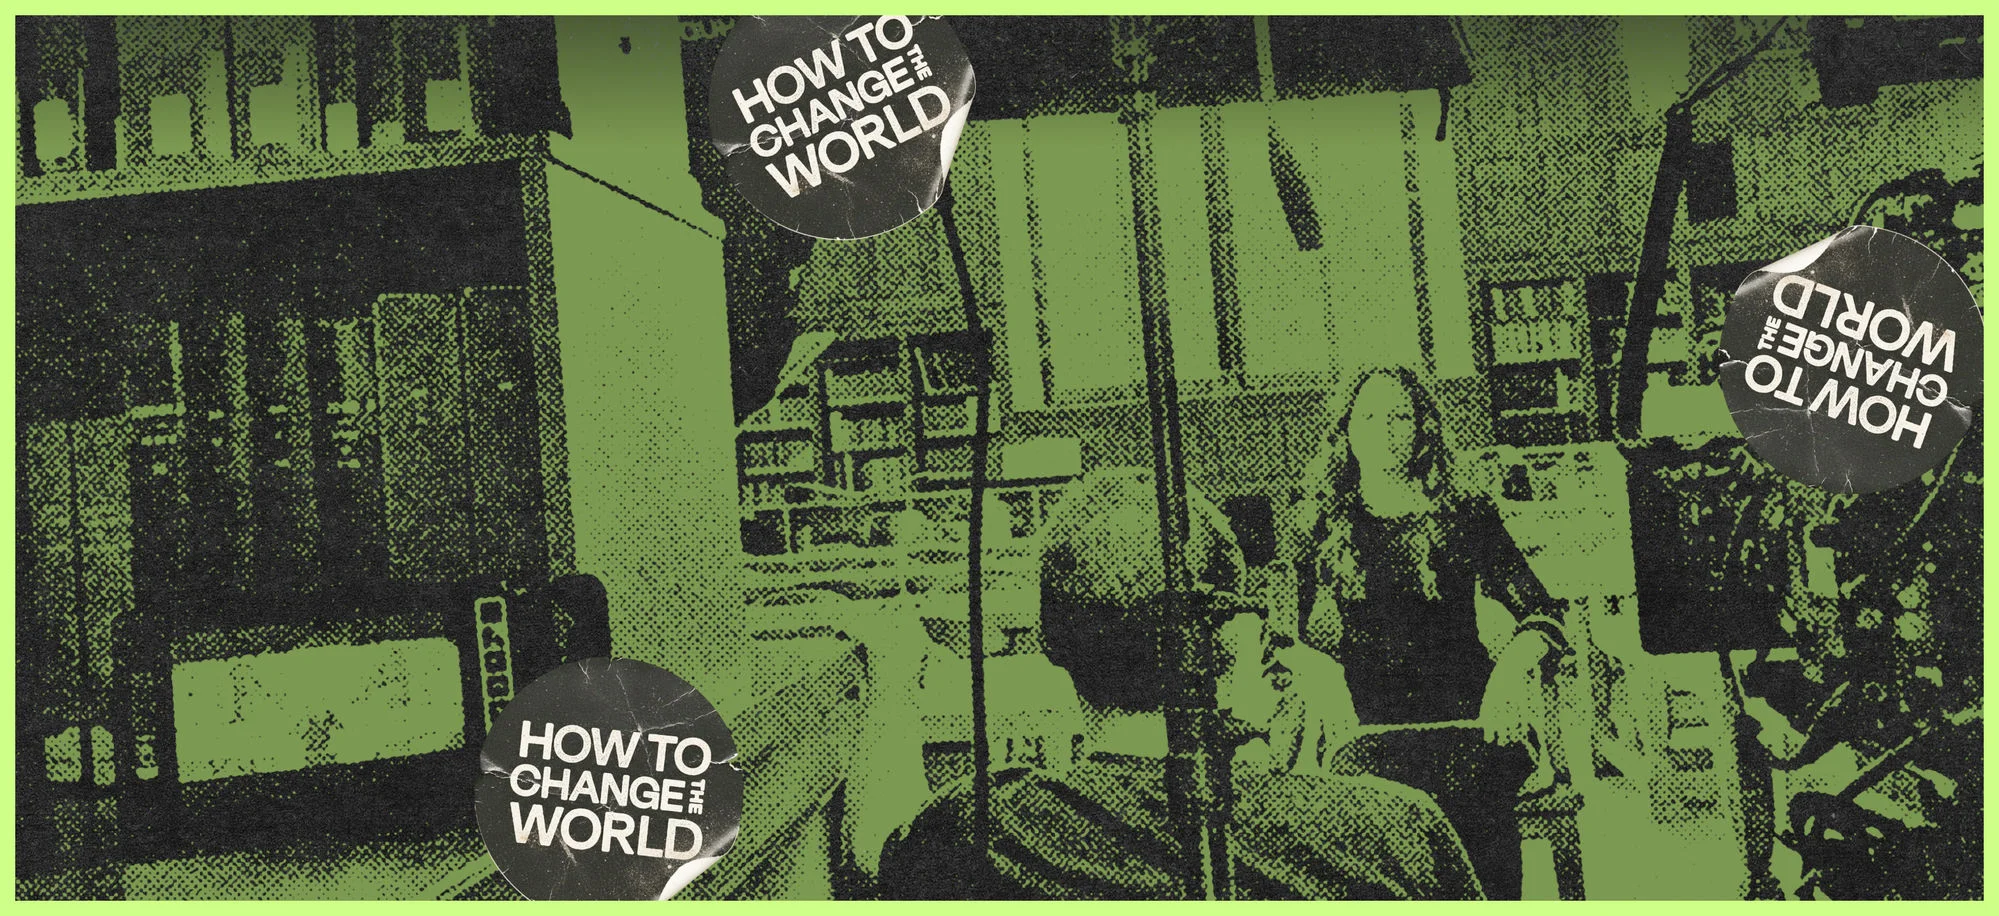
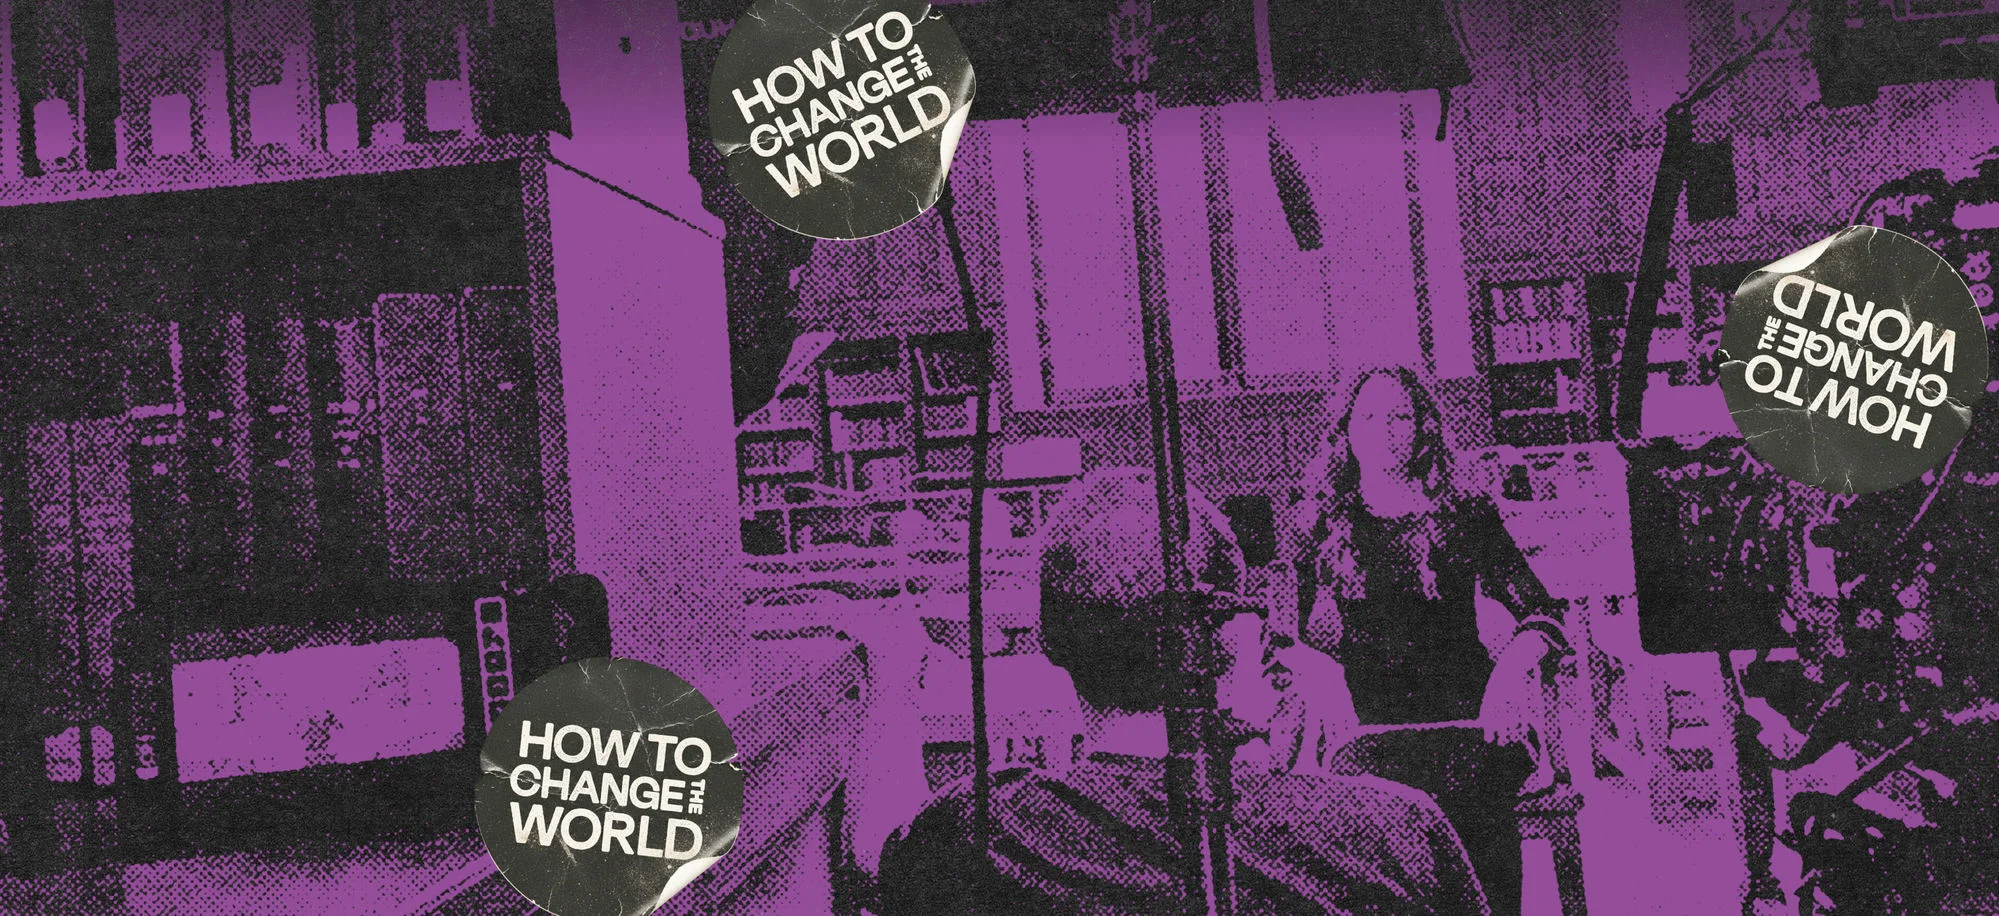
Lead the Awards page with the headline nominations
Adds the Golden Globe / Academy Award / BAFTA nomination row from Figma
2489:1360 above the laurels. It sits in the page header rather than in the
collection, so it holds across both the laurel and list views. Figma's
-1.44px on 36px and -1.12px on 28px are the same -0.04em, so one tracking
value covers both as they scale.

Both views now lead with SXSW, DOC NYC, Slamdance, Santa Barbara, Big Sky,
INDY, Signal, DC/DOX and Washington West; the sort is stable, so the rest
keep their existing order behind them. The list view's award type goes
green.

The podcast case study hero swaps to the purple treatment.

diff --git a/src/r2/siteData.js b/src/r2/siteData.js
@@ -255,6 +255,27 @@ export const ALL_EPISODES = YT_FEED.episodes
 /* --------------------------------------------------------------------------
    Awards / Press — laurels sliced from Figma rows 2425:1791 … 2425:1795
    -------------------------------------------------------------------------- */
+/* Headline nominations, called out above the laurels — Figma 2489:1360. */
+export const AWARD_NOMINATIONS = [
+  { id: 'golden-globe', title: ['GOLDEN GLOBE®', 'NOMINEE'], category: ['BEST MOTION PICTURE,', 'NON-ENGLISH LANGUAGE'] },
+  { id: 'academy-award', title: ['ACADEMY AWARD®', 'NOMINEE'], category: ['BEST INTERNATIONAL', 'FEATURE FILM'] },
+  { id: 'bafta', title: ['BAFTA®', 'NOMINEE'], category: ['FILM NOT IN THE', 'ENGLISH LANGUAGE'] },
+]
+
+/* The festivals the user wants leading both views, in this order. Anything not
+   named here keeps its original position and falls in behind Washington West. */
+const AWARDS_LEAD_ORDER = [
+  'sxsw-shuffle',
+  'docnyc-2023',
+  'slamdance-2024',
+  'santa-barbara',
+  'big-sky-2024',
+  'indy-film-2023',
+  'signal-silver-2023',
+  'dcdox-2023',
+  'washington-west-2023',
+]
+
 export const AWARDS = [
   { id: 'sxsw-shuffle', alt: 'SXSW Film & TV Festival 2025 — Documentary Feature Jury Award Winner' },
   { id: 'anthem-2025', alt: 'Anthem Awards 2025 — Silver Winner' },
@@ -280,4 +301,15 @@ export const AWARDS = [
   { id: 'santa-barbara', alt: 'Santa Barbara International Film Festival — Official Selection' },
   { id: 'ojai-best-doc-short', alt: 'Ojai Film Festival 2023 — Winner, Best Documentary Short' },
   { id: 'slamdance-2024', alt: 'Slamdance Film Festival 2024' },
-].map((a) => ({ ...a, src: `${A}/awards/${a.id}.webp` }))
+]
+  .map((a) => ({ ...a, src: `${A}/awards/${a.id}.webp` }))
+  .sort((a, b) => {
+    /* Lead-order entries first, in the order listed; everything else keeps its
+       original sequence behind them. `indexOf` returns -1 for unlisted ids, so
+       map those to Infinity rather than letting them sort ahead of the leads. */
+    const rank = (x) => {
+      const i = AWARDS_LEAD_ORDER.indexOf(x.id)
+      return i === -1 ? Infinity : i
+    }
+    return rank(a) - rank(b)
+  })

diff --git a/src/r2/pages/Awards.jsx b/src/r2/pages/Awards.jsx
@@ -1,8 +1,8 @@
-import { useEffect, useRef, useState } from 'react'
+import { Fragment, useEffect, useRef, useState } from 'react'
 import Nav from '../Nav.jsx'
 import Ticker from '../Ticker.jsx'
 import Footer from '../Footer.jsx'
-import { AWARDS } from '../siteData.js'
+import { AWARDS, AWARD_NOMINATIONS } from '../siteData.js'
 import './Awards.css'
 
 function GridIcon() {
@@ -107,6 +107,28 @@ export default function Awards() {
       <main>
         <section className="r2-wrap r2awards__head">
           <h1 className="r2-display">Awards / Press</h1>
+        </section>
+
+        {/* Headline nominations — Figma 2489:1360. Sits above the laurels and
+            stays put across both views, since it reads as part of the page
+            header rather than as another row of the collection below. The line
+            breaks are authored, not wrapped: each group is set as two centred
+            lines in the design. */}
+        <section className="r2awards__nominations" aria-label="Headline nominations">
+          {AWARD_NOMINATIONS.map((n) => (
+            <div key={n.id} className="r2awards__nom">
+              <p className="r2awards__nom-title">
+                {n.title.map((line, i) => (
+                  <Fragment key={line}>{i ? <br /> : null}{line}</Fragment>
+                ))}
+              </p>
+              <p className="r2awards__nom-cat">
+                {n.category.map((line, i) => (
+                  <Fragment key={line}>{i ? <br /> : null}{line}</Fragment>
+                ))}
+              </p>
+            </div>
+          ))}
         </section>
 
         <section className="r2-wrap r2awards__body">

diff --git a/src/r2/pages/Awards.css b/src/r2/pages/Awards.css
@@ -94,7 +94,60 @@
 .r2awards__distinction {
   font-size: 13.5px;
   line-height: 1.45;
+  color: var(--r2-green);
+}
+
+/* --- Headline nominations — Figma 2489:1360 --------------------------------
+   Three groups spread across the full 32px gutter, each set centred over two
+   authored lines. Figma's -1.44px on 36px and -1.12px on 28px are the same
+   -0.04em, so one value covers both as they scale down. */
+.r2awards__nominations {
+  display: flex;
+  align-items: flex-start;
+  justify-content: space-between;
+  gap: 32px;
+  width: 100%;
+  max-width: var(--r2-frame);
+  margin: 0 auto;
+  padding-inline: var(--r2-gutter);
+  padding-bottom: 56px;
+  text-align: center;
+}
+
+.r2awards__nom {
+  display: flex;
+  flex-direction: column;
+  gap: 8px;
+}
+
+.r2awards__nom-title,
+.r2awards__nom-cat {
+  font-family: var(--r2-display);
+  letter-spacing: -0.04em;
+  line-height: 0.92;
+  text-transform: uppercase;
+  margin: 0;
+}
+.r2awards__nom-title {
+  font-weight: 700;
+  font-size: clamp(20px, 2.5vw, 36px);
+  color: var(--r2-green);
+}
+.r2awards__nom-cat {
+  font-weight: 500;
+  font-size: clamp(15px, 1.95vw, 28px);
   color: var(--r2-cream-55);
+}
+
+/* Below the laurel grid's own two-column breakpoint the three groups no longer
+   fit side by side — stack them and let each run as one centred column. */
+@media (max-width: 700px) {
+  .r2awards__nominations {
+    flex-direction: column;
+    align-items: center;
+    gap: 26px;
+    padding-bottom: 40px;
+  }
 }
 
 @media (max-width: 1024px) {
